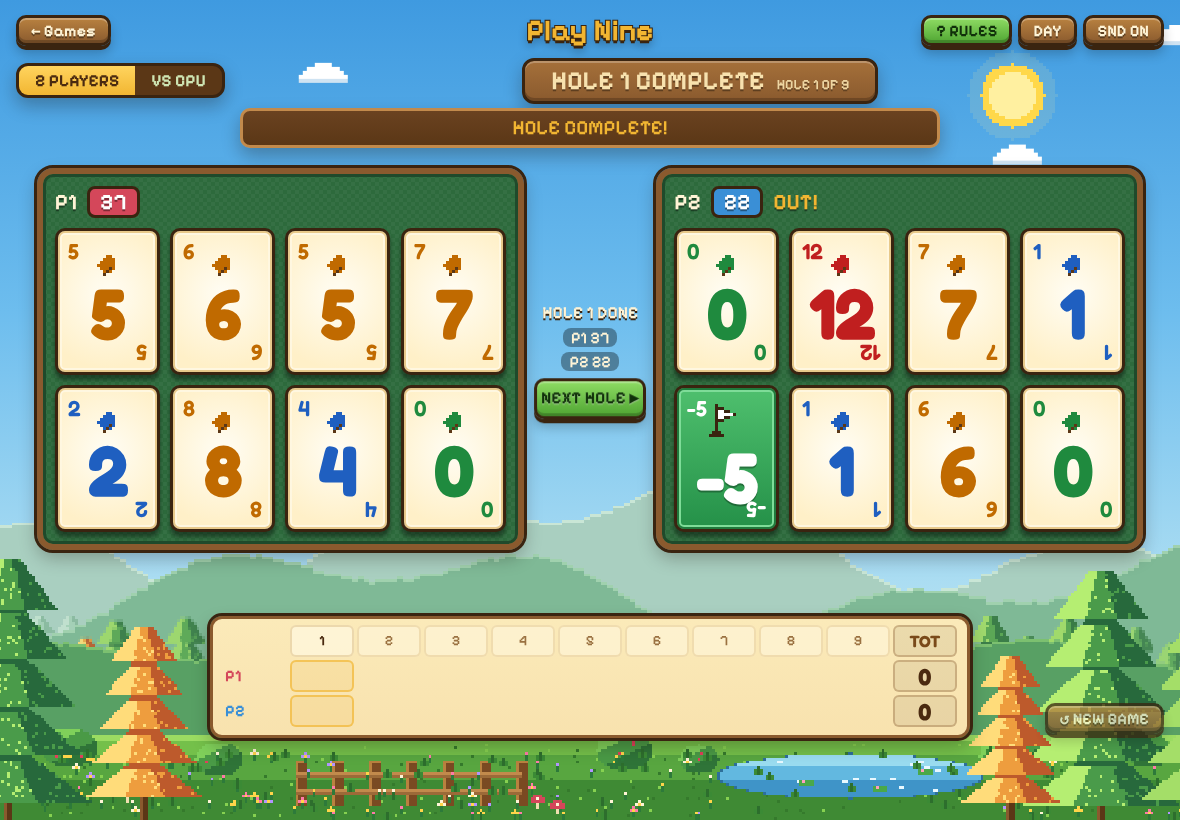
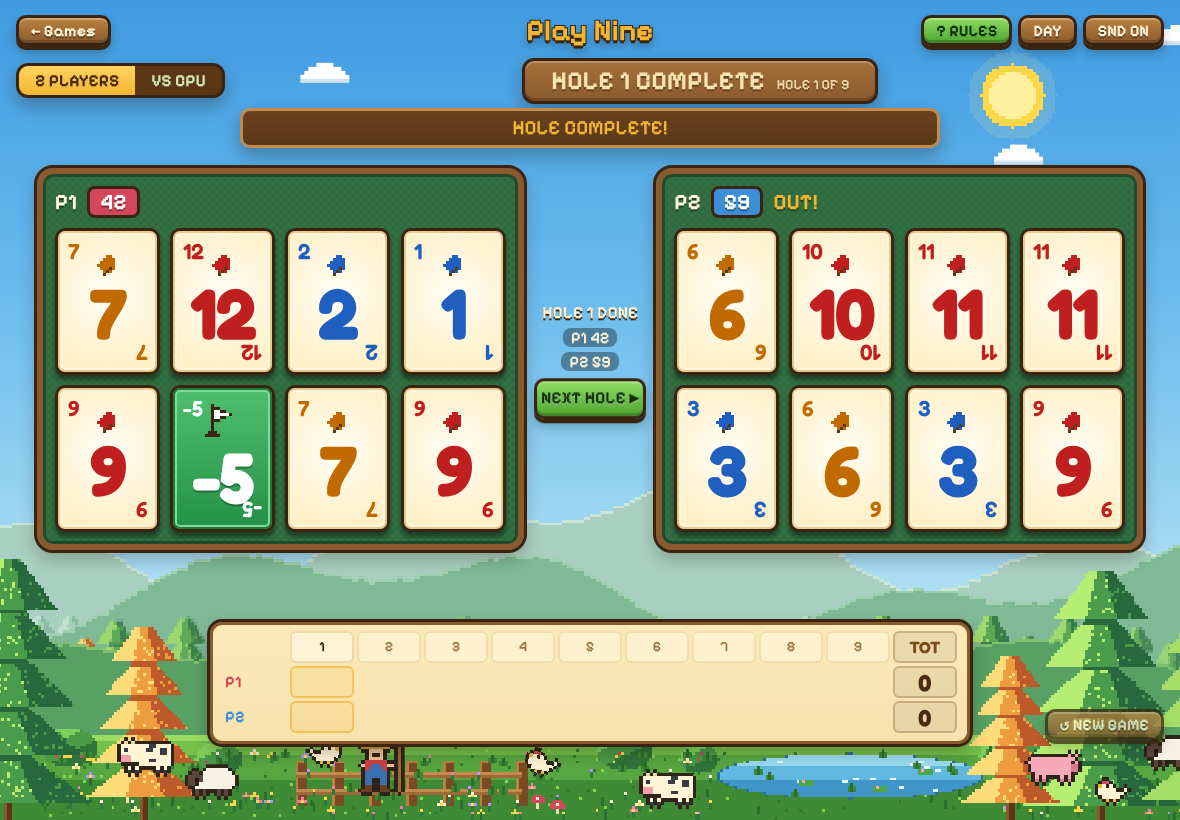
Farm animals and a farmer on the grass (extra layer), fixed-height choice row so landscape never shifts
Claude-Session: https://claude.ai/code/session_01Tm2GFLiqcFpWVRjxW8q5b7

diff --git a/src/art.tsx b/src/art.tsx
@@ -313,6 +313,58 @@ export function Sky({ time }: { time: Resolved }) {
   );
 }
 
+
+/* ================= farm critters (a separate layer over the grass; the landscape itself is untouched) ================= */
+type Sprite = { rows: string[]; pal: Record<string, string> };
+const SPRITES: Record<string, Sprite> = {
+  cow: { pal: { w: '#fff4d6', k: '#3a3a44', p: '#f2a0a8', h: '#e8d8a0' }, rows: [
+    '...........h.h.', '.wwwwkkwwwwwwww', '.wkkwwkkwwwwwkw', '.wkkwwwwwwwwwww', '.wwwwwwwwwwwppp',
+    '.wwwwkkwwwwwppp', '.wwwwwwwww.....', '..w.w.....w.w..', '..k.k.....k.k..'] },
+  sheep: { pal: { c: '#f6f1e4', d: '#5a463a', k: '#1f1710' }, rows: [
+    '..cccccc......', '.cccccccc.dd..', 'cccccccccdddd.', 'cccccccccdkdd.', 'cccccccccc.dd.',
+    '.cccccccccc...', '..d.d...d.d...', '..d.d...d.d...'] },
+  pig: { pal: { p: '#f4a8b8', q: '#d97a92', k: '#3a2410' }, rows: [
+    '...........p.p', '.pppppppppppp.', 'ppppppppppppkp', '.pppppppppppqq', '.pppppppppppqq',
+    '..pppppppppp..', '..p.p....p.p..', '..q.q....q.q..'] },
+  hen: { pal: { w: '#fff4d6', r: '#d4475a', y: '#f2b632', k: '#3a2410' }, rows: [
+    '.....rr..', '....wkwy.', 'w..wwwww.', '.wwwwwww.', '..wwwww..', '...y.y...'] },
+  farmer: { pal: { y: '#e8c060', Y: '#c9973a', s: '#f1c49a', k: '#3a2410', r: '#c8423f', b: '#3a6fb0', n: '#6a4020', g: '#9c6a38', m: '#b8bcc4' }, rows: [
+    '...yyyy....m', '..yyyyyy...m', '.YYYYYYYY..g', '...ssss....g', '...skks....g', '...ssss....g', '..rrrrrr...g',
+    '.srrbbrrss.g', '..rbbbbr...g', '..bbbbbb...g', '..bbbbbb...g', '..bb..bb...g', '..bb..bb...g', '..nn..nn...g', '.nnn..nnn..g'] },
+};
+/** pixel rows -> data URL with an automatic dark outline so each critter reads at a glance */
+function spriteUrl({ rows, pal }: Sprite) {
+  const w = rows[0].length, h = rows.length, cv = document.createElement('canvas');
+  cv.width = w + 2; cv.height = h + 2;
+  const ctx = cv.getContext('2d')!;
+  const on = (x: number, y: number) => x >= 0 && y >= 0 && x < w && y < h && rows[y][x] !== '.';
+  ctx.fillStyle = '#2f2418';
+  for (let y = -1; y <= h; y++) for (let x = -1; x <= w; x++)
+    if (!on(x, y) && (on(x - 1, y) || on(x + 1, y) || on(x, y - 1) || on(x, y + 1))) ctx.fillRect(x + 1, y + 1, 1, 1);
+  rows.forEach((row, y) => [...row].forEach((ch, x) => { if (ch !== '.') { ctx.fillStyle = pal[ch]; ctx.fillRect(x + 1, y + 1, 1, 1); } }));
+  return { url: cv.toDataURL('image/png'), w: w + 2 };
+}
+/* [kind, left %, bottom % of the landscape box, walk distance px, seconds] - kept off the pond (x 60-80%) */
+const CRITTERS: [string, number, number, number, number][] = [
+  ['cow', 6, 9, 46, 38], ['sheep', 15, 4, 40, 30], ['hen', 24, 11, 22, 14], ['farmer', 30, 5, 0, 0],
+  ['pig', 84, 7, 36, 34], ['hen', 91, 3, 18, 12], ['sheep', 95, 10, 30, 36], ['cow', 50, 2, 50, 44], ['hen', 43, 9, 20, 16],
+];
+function Critters() {
+  const urls = useMemo(() => Object.fromEntries(Object.entries(SPRITES).map(([k, v]) => [k, spriteUrl(v)])), []);
+  return (
+    <div className="critters">
+      {CRITTERS.map(([kind, left, bottom, dist, dur], i) => {
+        const { url, w } = urls[kind];
+        return (
+          <div key={i} className={`critter ${kind}`} style={{ left: `${left}%`, bottom: `${bottom}%`, ['--walk' as string]: `${dist}px`, ['--dur' as string]: `${dur}s`, animationDelay: `-${(i * 7) % dur || 1}s` }}>
+            <img className="cr-in" src={url} alt="" style={{ width: `calc(var(--k) * ${w})`, animationDelay: `-${(i * 7) % dur || 1}s` }} />
+          </div>
+        );
+      })}
+    </div>
+  );
+}
+
 export function Scenery() {
   const { resolved } = useTime();
   const url = useMemo(makeLandscape, []);
@@ -320,6 +372,7 @@ export function Scenery() {
     <div className="scenery" data-time={resolved} aria-hidden>
       <Sky time={resolved} />
       <div className="landscape" style={{ backgroundImage: `url(${url})` }} />
+      <Critters />
       <div className="tint" />
       {Array.from({ length: 7 }, (_, i) => <i key={`l${i}`} className={`leaf l${i}`} />)}
       {Array.from({ length: 14 }, (_, i) => <i key={`f${i}`} className={`firefly f${i}`} />)}

diff --git a/src/styles.css b/src/styles.css
@@ -803,3 +803,24 @@ html[data-fitted], html[data-fitted] body { overflow: hidden; height: var(--app-
 .hs-row > span.now:not(.hs-name):empty { box-shadow: inset 0 0 0 2px #f2b632aa; background: #f2b63222; }
 .hs-row > b { font-family: var(--num); font-size: 1.15em; border: 2px solid #8a5a2e55; background: #00000010; }
 .hs-row > b.lead { border-color: #3f9a2e; }
+
+/* choice row: fixed height so the tip / SKIP button appearing can never push the table around */
+.pnboard .choice { height: 64px; overflow: visible; }
+.choice2 { height: 64px; min-height: 64px; flex-wrap: nowrap; }
+.choice2 .skipbtn { padding-top: 6px; padding-bottom: 6px; line-height: 1.1; }
+[data-fit] .pnboard .choice, [data-fit] .choice2 { height: 38px; min-height: 38px; }
+
+/* farm critters on the grass (extra layer; the landscape art is unchanged) */
+.critters { position: absolute; bottom: 0; left: 0; right: 0; height: min(58vh, 580px); --k: clamp(2.4px, .44vh, 4.2px); }
+.critter { position: absolute; }
+.critter:not(.farmer) { animation: cwalk var(--dur) ease-in-out infinite; }
+.critter .cr-in { display: block; image-rendering: pixelated; transform-origin: bottom center; }
+.critter:not(.farmer) .cr-in { animation: cflip var(--dur) steps(1, end) infinite, chop 1.1s ease-in-out infinite; }
+.critter.hen .cr-in { animation: cflip var(--dur) steps(1, end) infinite, peck .9s ease-in-out infinite; }
+.critter.farmer .cr-in { animation: sway 4s ease-in-out infinite; }
+@keyframes cwalk { 0%, 100% { transform: translateX(0); } 50% { transform: translateX(var(--walk)); } }
+@keyframes cflip { 0% { scale: 1 1; } 50% { scale: -1 1; } }
+@keyframes chop { 0%, 100% { translate: 0 0; } 50% { translate: 0 -2px; } }
+@keyframes peck { 0%, 60%, 100% { rotate: 0deg; } 75% { rotate: 14deg; } }
+@keyframes sway { 0%, 100% { rotate: -1deg; } 50% { rotate: 1.5deg; } }
+@media (prefers-reduced-motion: reduce) { .critter, .critter .cr-in { animation: none !important; } }
